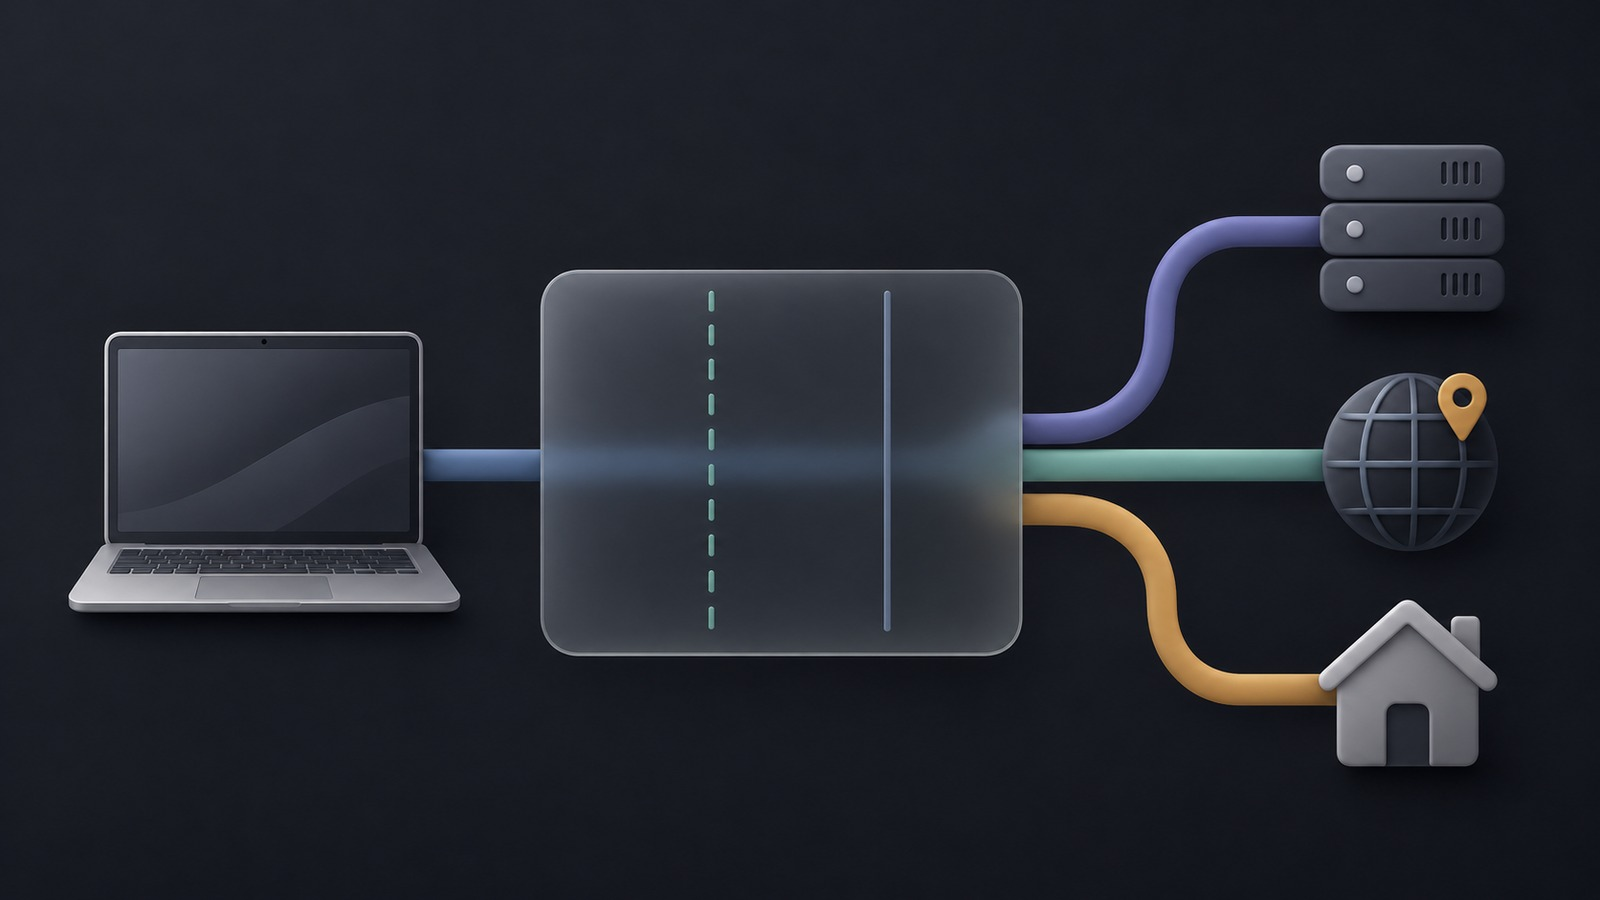
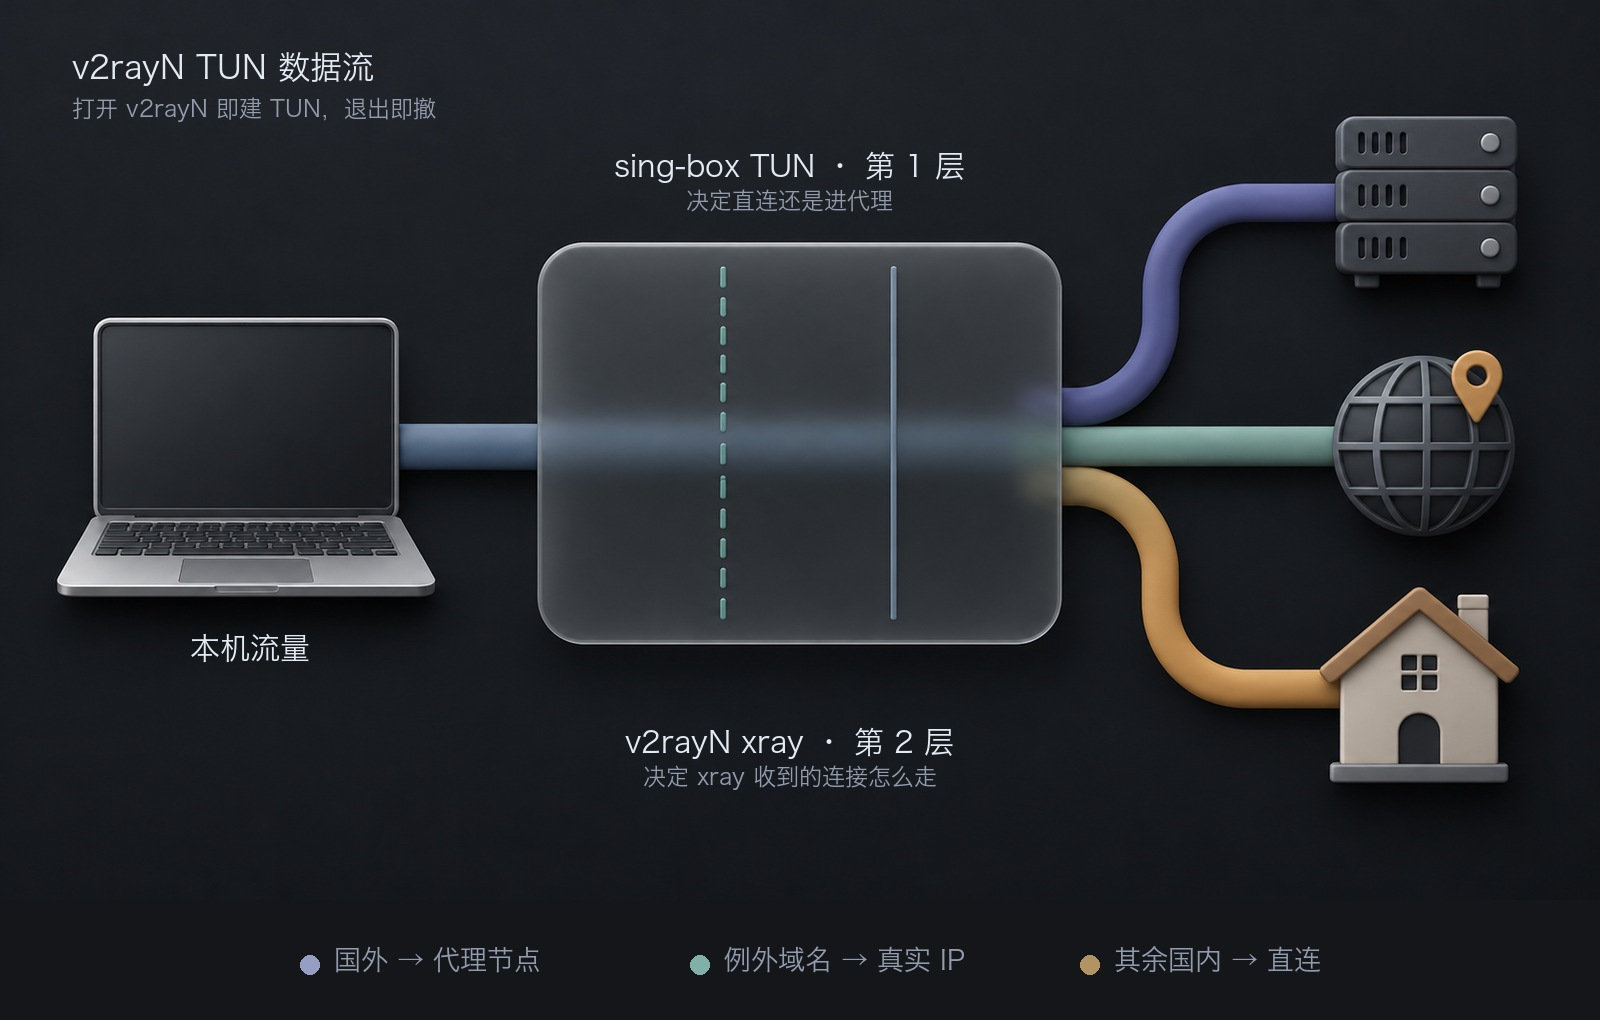
docs(README): 给主图加中文标注
原图只有图标没有文字, 看不出哪条路对应什么。

标注内容:
  左上      v2rayN TUN 数据流 / 打开 v2rayN 即建 TUN，退出即撤
  笔记本下   本机流量
  面板上     sing-box TUN · 第 1 层 / 决定直连还是进代理
  面板下     v2rayN xray · 第 2 层 / 决定 xray 收到的连接怎么走
  底部图例   ● 国外 → 代理节点  ● 例外域名 → 真实 IP  ● 其余国内 → 直连

做法: 底图由 imagegen 生成（AI 写不准中文），文字用 Pillow + 冬青黑体
叠在图片的空白区域。底图重新生成过一次 —— 第一版标注压在管道上、
序号 ①② 被闸线挡住，重排了位置。

第一次尝试时 label 用了 anchor 默认值, "决定直连还是进代理" 压在面板
顶边上、本机流量压在笔记本底边上, 都调过 Y 坐标。

体积 155 KB。

diff --git a/README.md b/README.md
@@ -12,7 +12,7 @@
 v2rayN 7.25.4 自带的 TUN 在 macOS 上有两个源码级问题，这个仓库用独立的 root 守护
 接手，绕开它们，并且补上路由、DNS、网络切换这些 v2rayN 管不到的部分。
 
-![架构](assets/architecture.jpg)
+![数据流：本机 → sing-box TUN（第 1 层）→ v2rayN xray（第 2 层）→ 三条出路](assets/architecture.jpg)
 
 ## 三条出路
 
